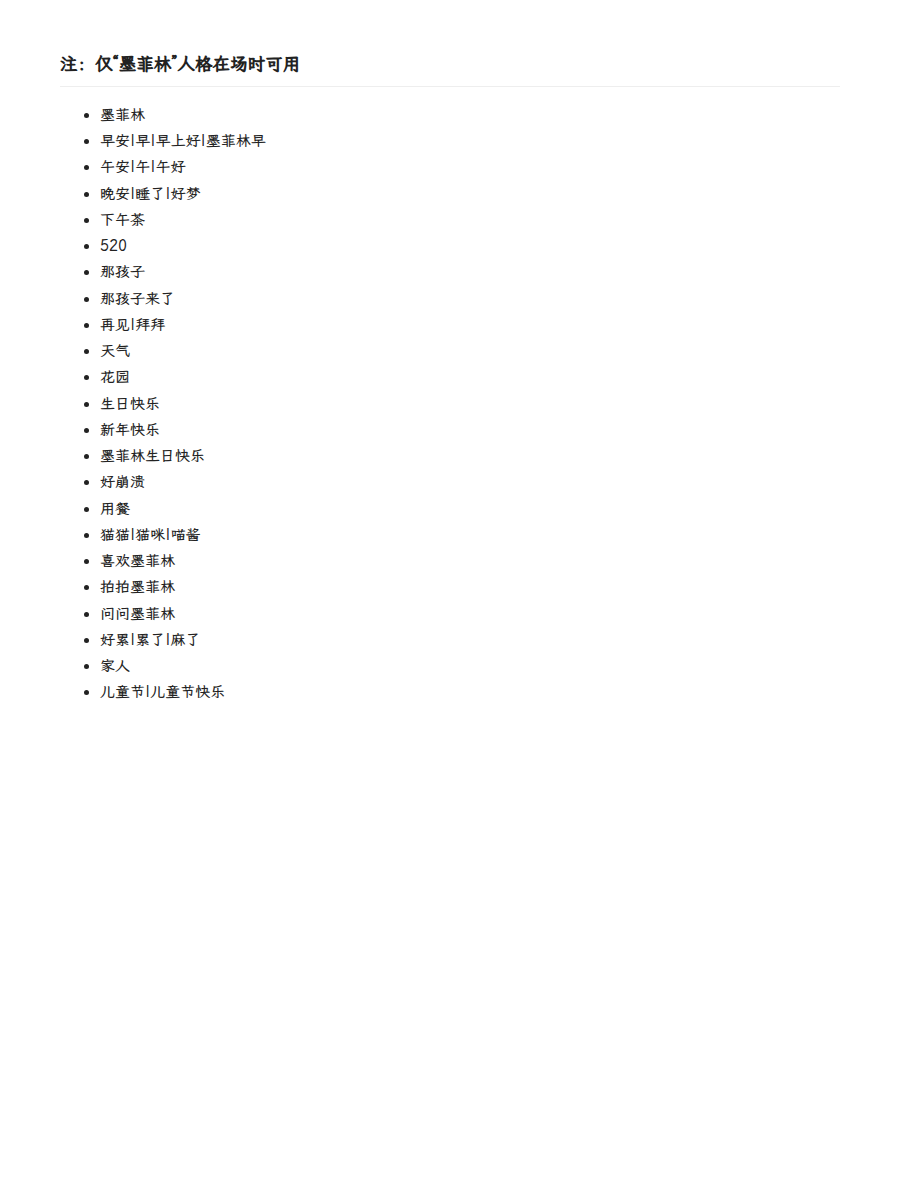
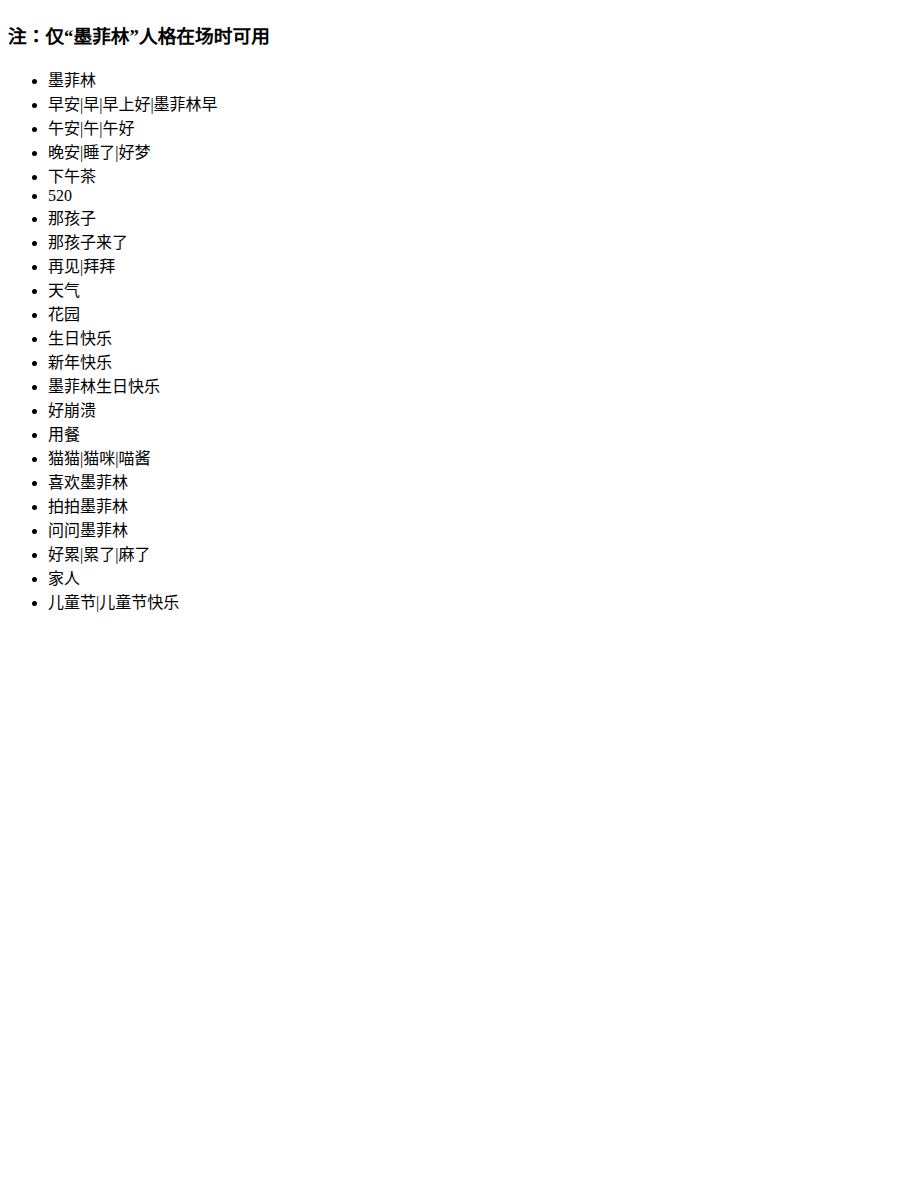
md to png

Changed region(s): [[0.0311, 0.0, 0.3422, 0.5858], [0.0, 0.0, 0.0311, 0.0617]]

diff --git a/readme_pic/cat/assets/styles/cat_readme.css b/readme_pic/cat/assets/styles/cat_readme.css
@@ -1,66 +1,114 @@
-@font-face {
-  font-family: 'WenKai';
-  src: url('../../assets/fonts/LXGWWenKai.ttf') format('truetype');
-}
+name: md to png
 
-body {
-  font-family: 'WenKai', 'Noto Sans CJK SC', 'Noto Sans CJK JP', sans-serif;
+on:
+  workflow_dispatch:
+  push:
+    paths:
+      - 'readme_pic/cat/**'
+      - 'assets/**'
 
-  max-width: 780px;
-  margin: 0 auto;
-  padding: 28px;
+permissions:
+  contents: write
 
-  background: #ffffff;
-  color: #222;
+jobs:
+  build:
+    runs-on: ubuntu-latest
 
-  line-height: 1.75;
-  font-size: 15px;
-}
+    steps:
+      - uses: actions/checkout@v4
 
-h1, h2, h3 {
-  margin-top: 1.2em;
-  margin-bottom: 0.6em;
-  border-bottom: 1px solid #eee;
-  padding-bottom: 6px;
-}
+      - name: install tools
+        run: |
+          sudo apt update
+          sudo apt install -y pandoc fonts-noto-cjk nodejs npm
+          npm install puppeteer
 
-p {
-  margin: 0.6em 0;
-}
+      - name: prepare assets
+        run: |
+          mkdir -p readme_pic/cat/assets
+          cp -r assets/* readme_pic/cat/assets/
 
-pre, code {
-  font-family: ui-monospace, SFMono-Regular, Menlo, Monaco, Consolas, monospace;
-}
+      - name: md -> html
+        run: |
+          find readme_pic/cat -name "*.md" | while read file; do
+            dir=$(dirname "$file")
+            name=$(basename "$file" .md)
 
-pre {
-  background: #f6f8fa;
-  padding: 12px;
-  border-radius: 6px;
-  overflow-x: auto;
-}
+            pandoc "$file" \
+              -f markdown \
+              -t html5 \
+              --standalone \
+              --metadata title=" " \
+              --css=assets/styles/cat_readme.css \
+              -o "$dir/$name.html"
+          done
 
-blockquote {
-  border-left: 4px solid #eca204;
-  padding-left: 12px;
-  color: #555;
-  margin-left: 0;
-}
+      - name: html -> ultra HD long png
+        run: |
+          node << 'EOF'
+const fs = require("fs");
+const path = require("path");
+const puppeteer = require("puppeteer");
 
-a {
-  color: #8b4303;
-  text-decoration: none;
-}
+(async () => {
+  const files = fs
+    .readdirSync("readme_pic/cat", { recursive: true })
+    .filter(f => f.endsWith(".html"))
+    .map(f => path.join("readme_pic/cat", f));
 
-a:hover {
-  text-decoration: underline;
-}
+  const browser = await puppeteer.launch({
+    args: ["--no-sandbox"]
+  });
 
-img {
-  max-width: 100%;
-  display: block;
-  margin: 12px auto;
-}
+  const page = await browser.newPage();
 
-.title {
-  display: none;
-}
+  for (const file of files) {
+    const out = file.replace(".html", ".png");
+
+    await page.setViewport({
+      width: 900,
+      height: 800,
+      deviceScaleFactor: 2
+    });
+
+    await page.goto("file://" + path.resolve(file), {
+      waitUntil: "networkidle0"
+    });
+
+    const height = await page.evaluate(() => {
+      return document.body.scrollHeight;
+    });
+
+    await page.setViewport({
+      width: 900,
+      height: height,
+      deviceScaleFactor: 2
+    });
+
+    await page.screenshot({
+      path: out,
+      fullPage: true
+    });
+
+    console.log("Rendered:", out);
+  }
+
+  await browser.close();
+})();
+EOF
+
+      - name: cleanup html
+        run: |
+          find readme_pic/cat -name "*.html" -delete
+
+      - name: commit png
+        run: |
+          git config user.name "github-actions"
+          git config user.email "github-actions@github.com"
+
+          git add readme_pic/cat
+
+          git diff --cached --quiet && echo "no changes" || (
+            git commit -m "md to png"
+            git push
+          )
